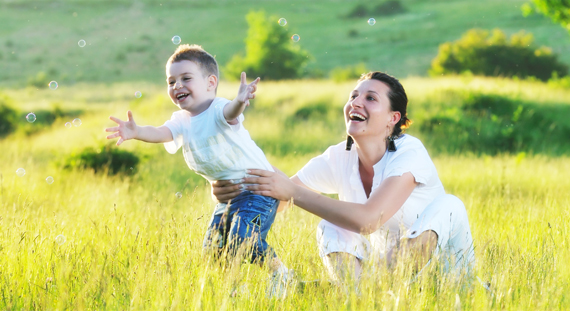
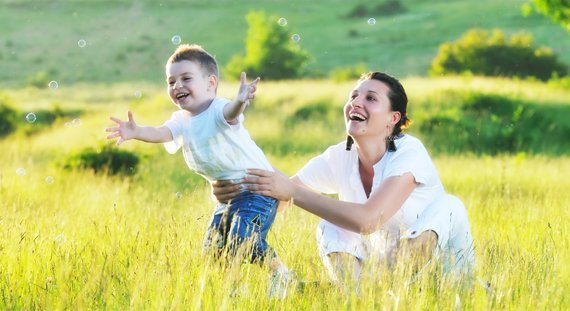
Сжал изображения, провел валицацию

diff --git a/src/index.html b/src/index.html
@@ -22,12 +22,12 @@
         </div>
       </div>
     </main>
-    <section class="main-content">
+    <div class="main-content">
       <div class="container">
         //= template/about.html
         //= template/events.html
       </div>
-    </section>
+    </div>
     //= template/ad.html
     //= template/courses.html
     //= template/footer.html

diff --git a/gulpfile.js b/gulpfile.js
@@ -121,8 +121,8 @@ gulp.task('build', gulp.series(
     'js:build',
     'fonts:build',
     'img:build'
-  )
-  // 'critical'
+  ),
+  'critical'
 ));
 
 gulp.task('watch', function() {
